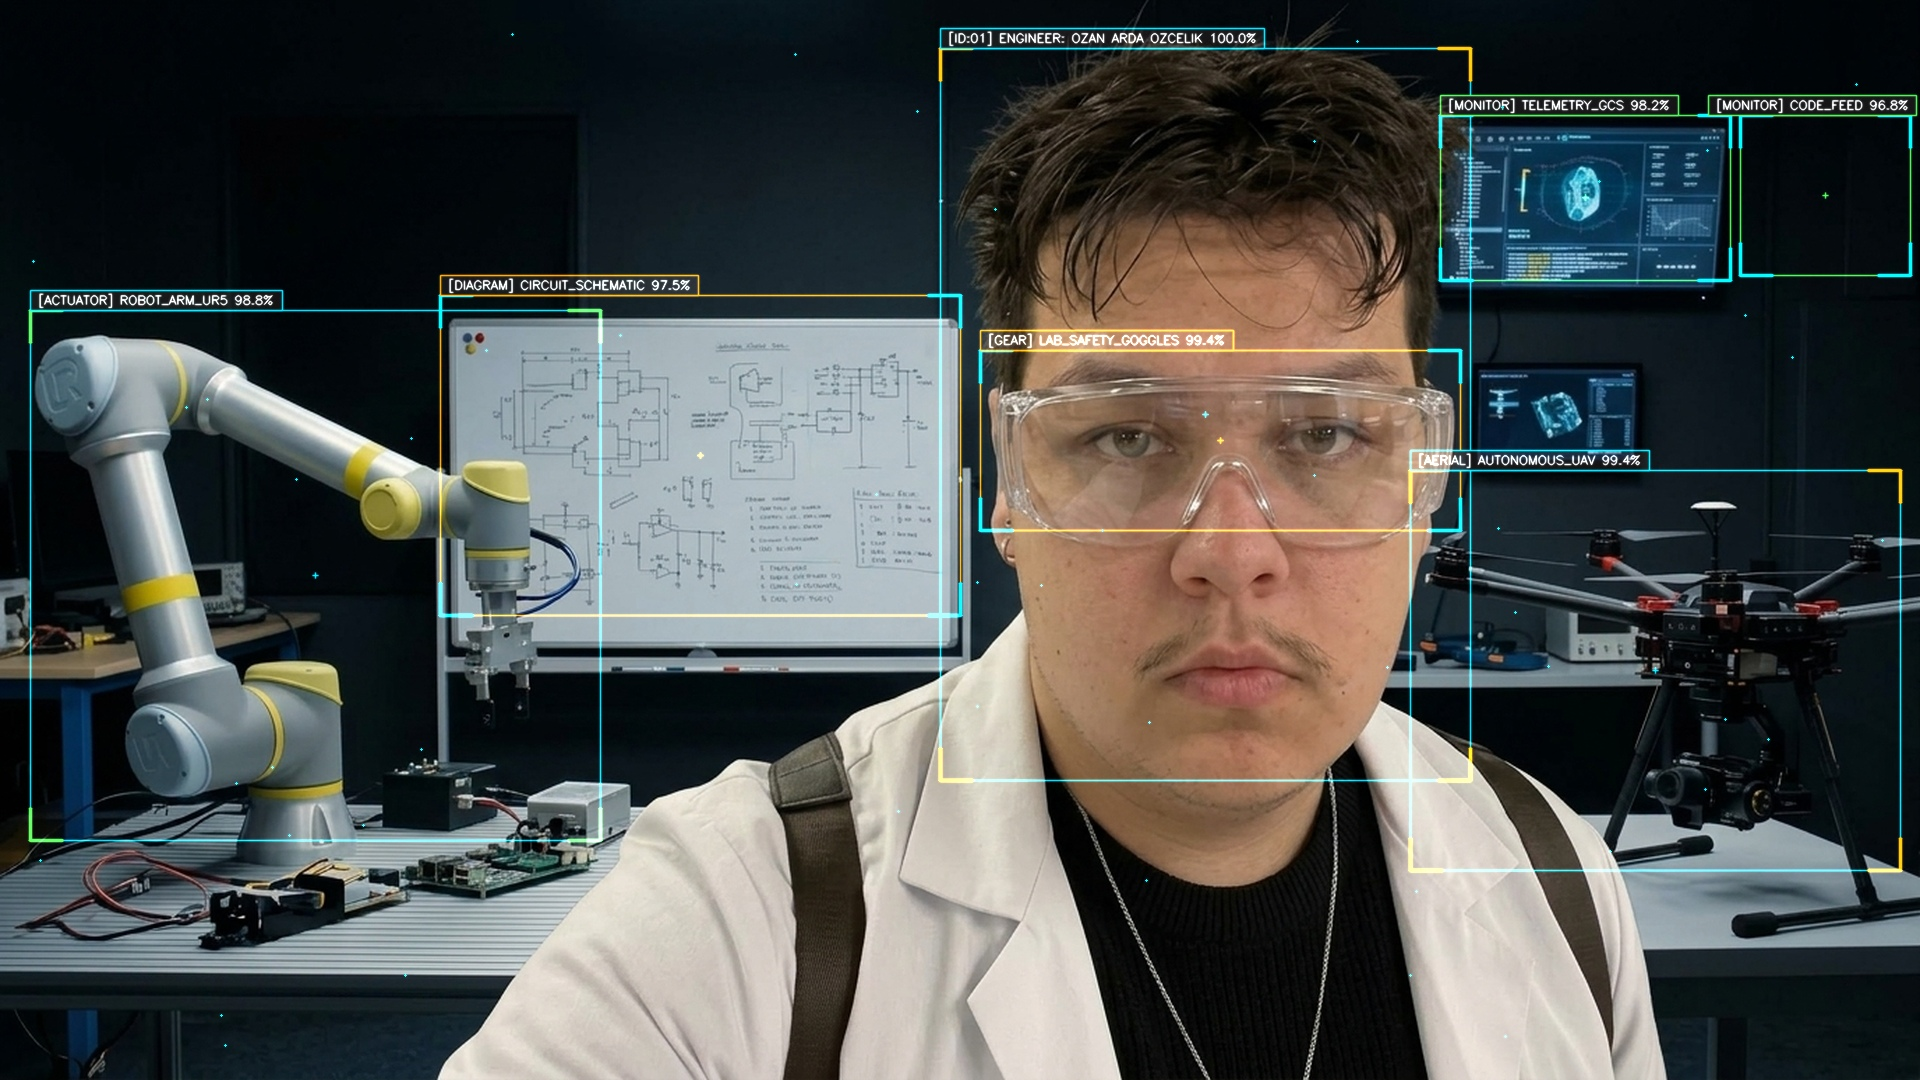
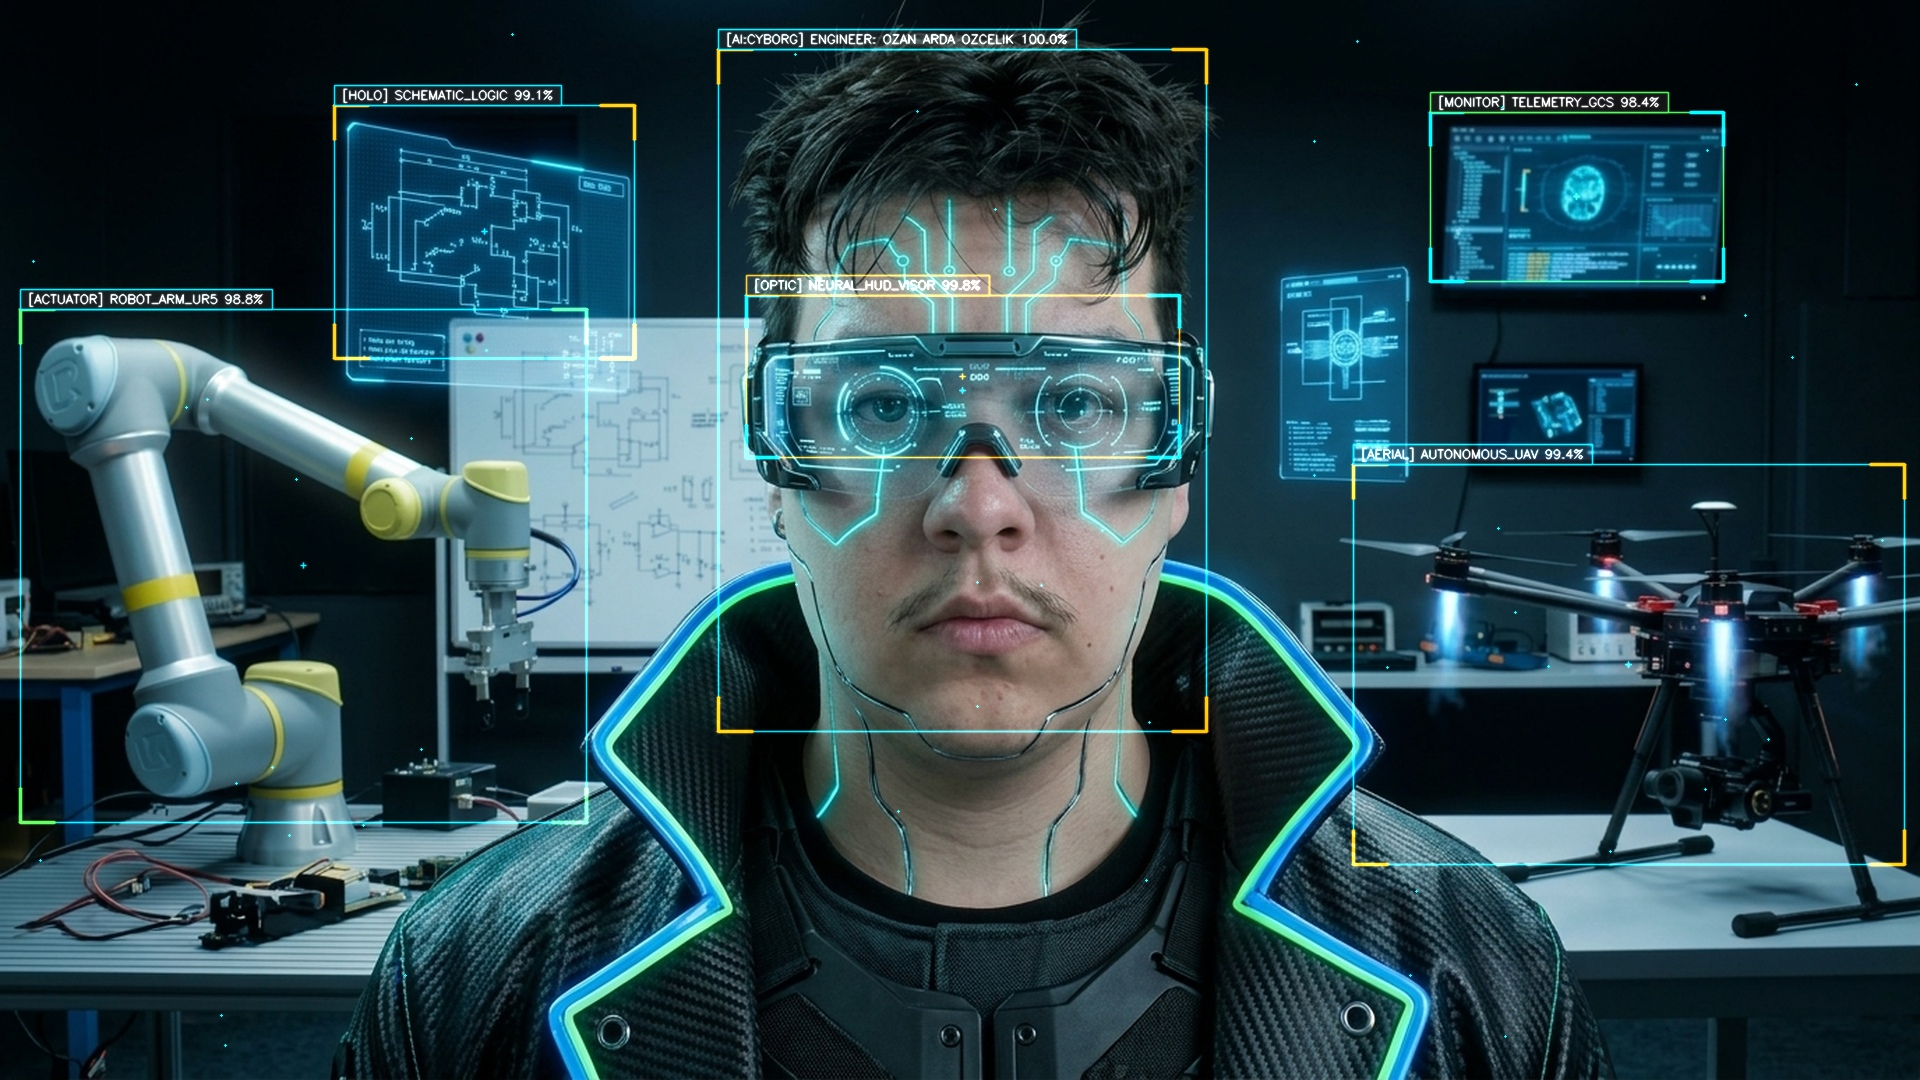
feat(hero): AI cyberpunk cyborg engineer with neural HUD visor, cyber tech-coat and terminator robot reveal

diff --git a/shaders.js b/shaders.js
@@ -49,10 +49,11 @@ export const displayFragmentShader = `
     vec2 s = uResolution / ts;
     float scale = max(s.x, s.y);
     vec2 scaled = ts * scale;
-    // Centered horizontally since composition is already right-shifted for editorial layout
-    float offsetX = (uResolution.x - scaled.x) * 0.5;
-    // Vertically anchor towards top (0.75) so head, hair, and ENGINEER box are 100% visible
-    float offsetY = (uResolution.y - scaled.y) * 0.75;
+    // Shift slightly to the right on desktop for clean separation with left editorial text
+    float shiftX = uResolution.x > 850.0 ? uResolution.x * 0.06 : 0.0;
+    float offsetX = (uResolution.x - scaled.x) * 0.5 + shiftX;
+    // Vertically anchor towards top (0.80) so head, hair, and ENGINEER box are 100% visible
+    float offsetY = (uResolution.y - scaled.y) * 0.80;
     return (uv * uResolution - vec2(offsetX, offsetY)) / scaled;
   }
 

diff --git a/scratch/build_ai_cyborg_hero.py b/scratch/build_ai_cyborg_hero.py
@@ -1,0 +1,165 @@
+import cv2
+import numpy as np
+from PIL import Image
+
+ARTIFACT_DIR = r"C:\Users\dloozi\.gemini\antigravity-cli\brain\af0d76d1-4e98-4245-9246-8ea4316a204d"
+OUT_DIR = r"C:\Users\dloozi\Desktop\codes\personal-website\public"
+
+TOP_SRC = ARTIFACT_DIR + r"\ozan_cyborg_ai_top_1789746783353.jpg"
+ROBOT_FACE_SRC = ARTIFACT_DIR + r"\ozan_robot_right_shifted_1789746501403.jpg"
+
+TARGET_W, TARGET_H = 1920, 1080
+
+# ── High-Tech Cyber BGR Colors ──
+CYAN    = (255, 220, 0)     # #00dcff
+AMBER   = (0, 160, 255)     # #ffa000
+GREEN   = (80, 235, 80)     # #50eb50
+WHITE   = (250, 250, 250)
+DARK_BG = (10, 12, 16)
+
+def build_composite_bottom():
+    top = cv2.imread(TOP_SRC)
+    bot_src = cv2.imread(ROBOT_FACE_SRC)
+    h, w = top.shape[:2]
+
+    # Shift robot skull from x=865 to x=690 (dx = -175, dy = -25)
+    M = np.float32([[1, 0, -175], [0, 1, -25]])
+    bot_aligned = cv2.warpAffine(bot_src, M, (w, h), borderMode=cv2.BORDER_REFLECT)
+
+    # Smooth mask for robot head and skull
+    mask = np.zeros((h, w), dtype=np.float32)
+    cv2.ellipse(mask, (690, 260), (160, 230), 0, 0, 360, 1.0, -1)
+    mask = cv2.GaussianBlur(mask, (35, 35), 0)
+    mask_3ch = np.repeat(mask[:, :, np.newaxis], 3, axis=2)
+
+    composite = (bot_aligned * mask_3ch + top * (1.0 - mask_3ch)).astype(np.uint8)
+    return composite
+
+def draw_cyber_box(overlay, px1, py1, px2, py2, label, score, primary=CYAN, accent=AMBER, class_id=None, glow=False):
+    box_thick = 2 if glow else 1
+
+    # Boundary box
+    cv2.rectangle(overlay, (px1, py1), (px2, py2), primary, box_thick, cv2.LINE_AA)
+
+    # Corner brackets
+    clen = max(16, min(34, (px2 - px1) // 5, (py2 - py1) // 5))
+    bracket_thick = 3 if glow else 2
+    for cx, cy, dx, dy in [
+        (px1, py1, 1, 1), (px2, py1, -1, 1),
+        (px1, py2, 1, -1), (px2, py2, -1, -1)
+    ]:
+        cv2.line(overlay, (cx, cy), (cx + dx * clen, cy), accent, bracket_thick, cv2.LINE_AA)
+        cv2.line(overlay, (cx, cy), (cx, cy + dy * clen), accent, bracket_thick, cv2.LINE_AA)
+
+    # Tag label text
+    tag_text = f"[{class_id}] {label} {score:.1f}%" if score is not None else f"[{class_id}] {label}"
+    font = cv2.FONT_HERSHEY_SIMPLEX
+    font_scale = 0.44 if glow else 0.41
+    thickness = 1
+    (tw, th), _ = cv2.getTextSize(tag_text, font, font_scale, thickness)
+
+    tag_w = tw + 16
+    tag_h = th + 10
+    tag_x1 = max(4, min(px1, TARGET_W - tag_w - 4))
+    tag_x2 = tag_x1 + tag_w
+
+    if py1 - tag_h > 4:
+        tag_y1 = py1 - tag_h
+        tag_y2 = py1
+    else:
+        tag_y1 = py1 + 2
+        tag_y2 = py1 + tag_h + 2
+    text_y = tag_y2 - 6
+
+    # Dark background badge with cyber outline
+    cv2.rectangle(overlay, (tag_x1, tag_y1), (tag_x2, tag_y2), DARK_BG, -1)
+    cv2.rectangle(overlay, (tag_x1, tag_y1), (tag_x2, tag_y2), primary, 1, cv2.LINE_AA)
+    cv2.putText(overlay, tag_text, (tag_x1 + 8, text_y), font, font_scale, WHITE, thickness, cv2.LINE_AA)
+
+    # Center tracking reticle
+    cx_center = (px1 + px2) // 2
+    cy_center = (py1 + py2) // 2
+    cv2.drawMarker(overlay, (cx_center, cy_center), primary, cv2.MARKER_CROSS, 10 if glow else 6, 1, cv2.LINE_AA)
+
+def add_cyber_particles(overlay, count=70):
+    np.random.seed(42)
+    for _ in range(count):
+        x = np.random.randint(20, TARGET_W - 20)
+        y = np.random.randint(20, TARGET_H - 20)
+        cv2.circle(overlay, (x, y), 1, CYAN, -1)
+
+# Scaled boxes in 1920x1080
+# Scaling factors from 1376x768 to 1920x1080: sx = 1920/1376 ~ 1.395, sy = 1080/768 = 1.40625
+sx = 1920.0 / 1376.0
+sy = 1080.0 / 768.0
+
+BOX_SPECS = [
+    # 1. Main Engineer Face Box (Head & Shoulders)
+    (int(515 * sx), int(35 * sy), int(865 * sx), int(520 * sy), "ENGINEER: OZAN ARDA OZCELIK", 100.0, CYAN, AMBER, "AI:CYBORG"),
+    # 2. Cyber Visor / Optical HUD
+    (int(535 * sx), int(210 * sy), int(845 * sx), int(325 * sy), "NEURAL_HUD_VISOR", 99.8, AMBER, CYAN, "OPTIC"),
+    # 3. UR5 Robot Arm (Left)
+    (int(15 * sx), int(220 * sy), int(420 * sx), int(585 * sy), "ROBOT_ARM_UR5", 98.8, CYAN, GREEN, "ACTUATOR"),
+    # 4. UAV Drone (Right)
+    (int(970 * sx), int(330 * sy), int(1365 * sx), int(615 * sy), "AUTONOMOUS_UAV", 99.4, CYAN, AMBER, "AERIAL"),
+    # 5. Floating Circuit Hologram (Left-Center)
+    (int(240 * sx), int(75 * sy), int(455 * sx), int(255 * sy), "SCHEMATIC_LOGIC", 99.1, CYAN, AMBER, "HOLO"),
+    # 6. Telemetry Monitor (Top-Right)
+    (int(1025 * sx), int(80 * sy), int(1235 * sx), int(200 * sy), "TELEMETRY_GCS", 98.4, GREEN, CYAN, "MONITOR"),
+]
+
+def generate():
+    # 1. TOP LAYER: AI Cyborg Engineer (Clean, Futuristic, Cybernetic)
+    top_raw = Image.open(TOP_SRC).convert("RGB")
+    top_1080 = top_raw.resize((TARGET_W, TARGET_H), Image.Resampling.LANCZOS)
+    top_bgr = cv2.cvtColor(np.array(top_1080), cv2.COLOR_RGB2BGR)
+
+    top_overlay = np.zeros_like(top_bgr)
+    for px1, py1, px2, py2, label, score, primary, accent, cid in BOX_SPECS:
+        draw_cyber_box(top_overlay, px1, py1, px2, py2, label, score, primary, accent, cid, glow=False)
+
+    add_cyber_particles(top_overlay, 50)
+    top_blur = cv2.GaussianBlur(top_overlay, (5, 5), 0)
+    top_final = cv2.addWeighted(top_bgr, 1.0, top_overlay, 0.95, 0)
+    top_final = cv2.addWeighted(top_final, 1.0, top_blur, 0.35, 0)
+
+    top_path = OUT_DIR + r"\portrait_top.jpg"
+    Image.fromarray(cv2.cvtColor(top_final, cv2.COLOR_BGR2RGB)).save(top_path, quality=96)
+    print(f"[OK] Saved {top_path}")
+
+    # 2. BOTTOM LAYER: Full Terminator Robot Skull Reveal
+    bot_composite_768 = build_composite_bottom()
+    bot_raw = Image.fromarray(cv2.cvtColor(bot_composite_768, cv2.COLOR_BGR2RGB))
+    bot_1080 = bot_raw.resize((TARGET_W, TARGET_H), Image.Resampling.LANCZOS)
+    bot_bgr = cv2.cvtColor(np.array(bot_1080), cv2.COLOR_RGB2BGR)
+
+    bot_overlay = np.zeros_like(bot_bgr)
+    for px1, py1, px2, py2, label, score, primary, accent, cid in BOX_SPECS:
+        draw_cyber_box(bot_overlay, px1, py1, px2, py2, label, score, primary, accent, cid, glow=True)
+
+    add_cyber_particles(bot_overlay, 90)
+
+    # Robot glowing optical iris aperture reticles
+    # Eye positions on robot skull:
+    left_eye = (int(630 * sx), int(298 * sy))
+    right_eye = (int(750 * sx), int(294 * sy))
+    for ex, ey in [left_eye, right_eye]:
+        cv2.circle(bot_overlay, (ex, ey), 28, CYAN, 2, cv2.LINE_AA)
+        cv2.circle(bot_overlay, (ex, ey), 18, AMBER, 1, cv2.LINE_AA)
+        cv2.circle(bot_overlay, (ex, ey), 4, WHITE, -1, cv2.LINE_AA)
+        cv2.line(bot_overlay, (ex - 36, ey), (ex - 20, ey), CYAN, 1, cv2.LINE_AA)
+        cv2.line(bot_overlay, (ex + 20, ey), (ex + 36, ey), CYAN, 1, cv2.LINE_AA)
+        cv2.line(bot_overlay, (ex, ey - 36), (ex, ey - 20), CYAN, 1, cv2.LINE_AA)
+        cv2.line(bot_overlay, (ex, ey + 20), (ex, ey + 36), CYAN, 1, cv2.LINE_AA)
+
+    bot_blur = cv2.GaussianBlur(bot_overlay, (7, 7), 0)
+    bot_final = cv2.addWeighted(bot_bgr, 1.0, bot_overlay, 0.95, 0)
+    bot_final = cv2.addWeighted(bot_final, 1.0, bot_blur, 0.50, 0)
+
+    bot_path = OUT_DIR + r"\portrait_bottom.jpg"
+    Image.fromarray(cv2.cvtColor(bot_final, cv2.COLOR_BGR2RGB)).save(bot_path, quality=96)
+    print(f"[OK] Saved {bot_path}")
+
+if __name__ == "__main__":
+    generate()
+    print("[DONE] AI Cyborg portraits generated successfully!")
